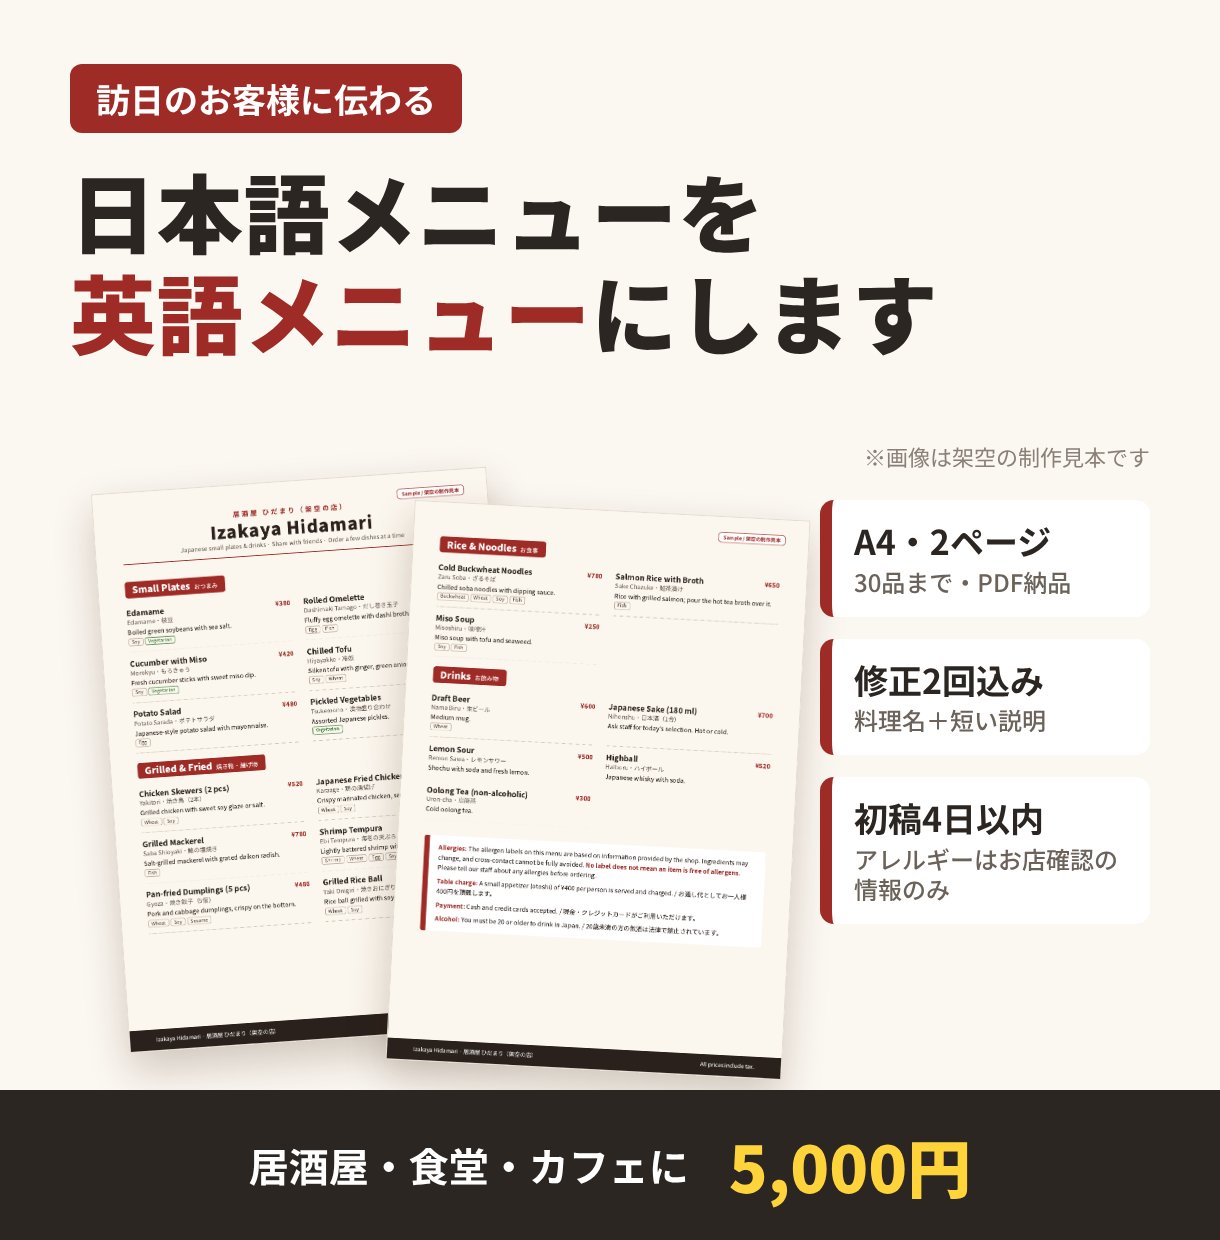
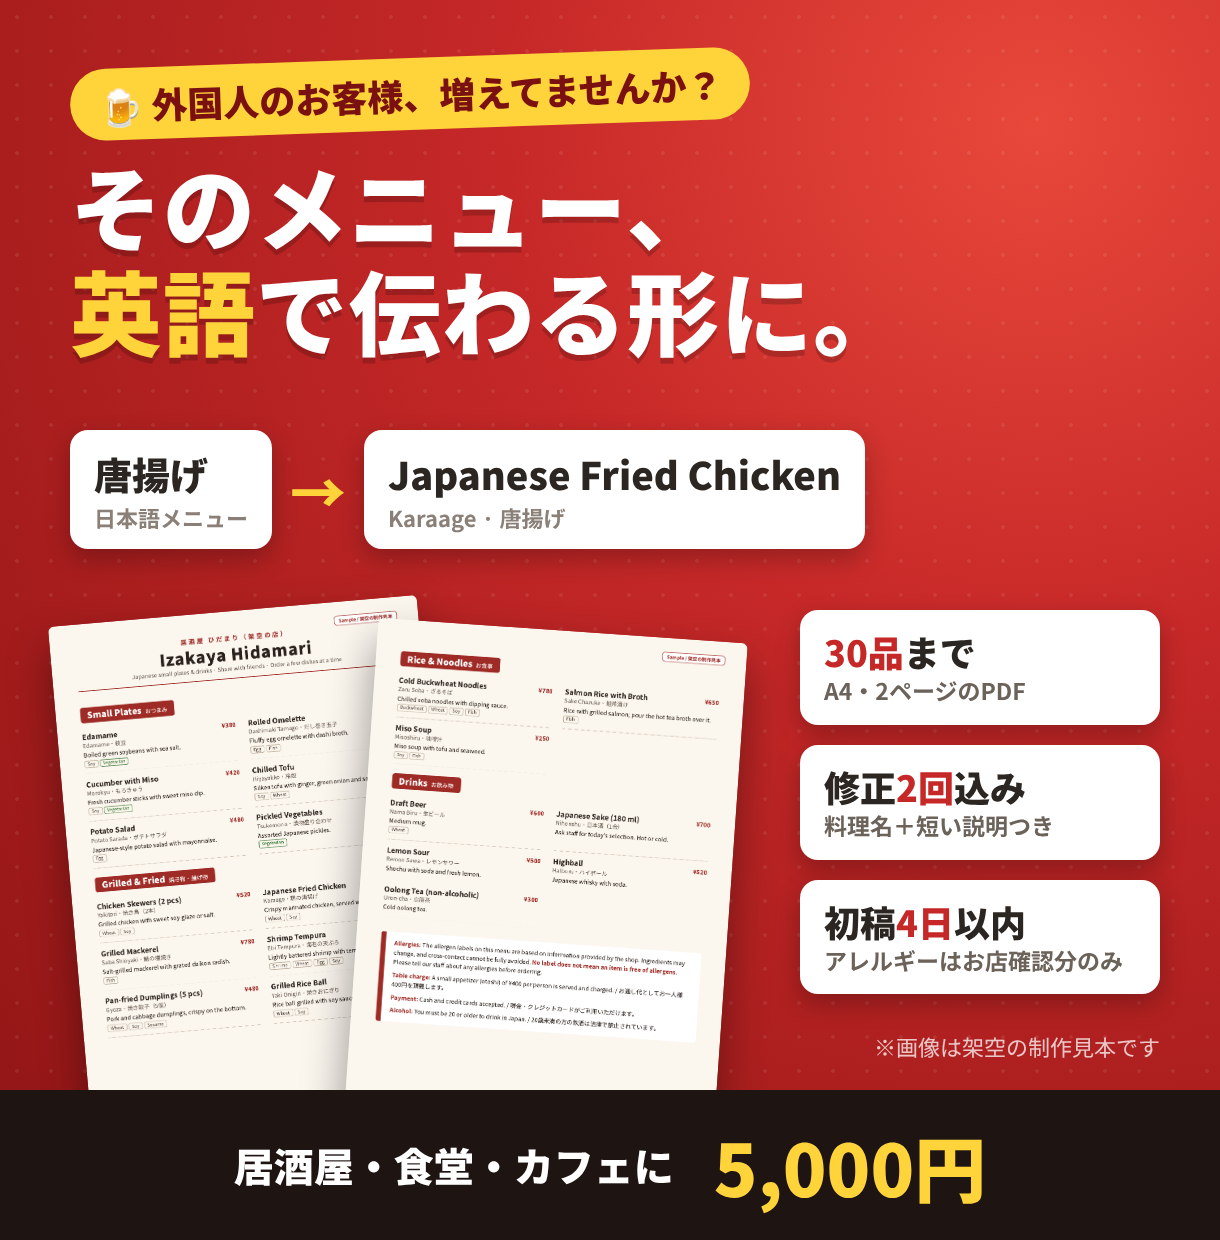
Menu thumbnail: bold red design
Claude-Session: https://claude.ai/code/session_01TjagRrtcak9M1F67RG8mqZ

diff --git a/coconala/build_thumb_menu.py b/coconala/build_thumb_menu.py
@@ -7,27 +7,37 @@ P1, P2 = (H/'_mp-1.png').as_uri(), (H/'_mp-2.png').as_uri()
 C = '#9E2B25'
 html = f'''<!doctype html><html lang=ja><head><meta charset=utf-8><style>
 *{{margin:0;padding:0;box-sizing:border-box}}
-body{{width:1220px;height:1240px;background:#FBF7F1;font-family:"Noto Sans CJK JP";color:#2B2622;position:relative;overflow:hidden}}
-.top{{padding:64px 70px 0}}
-.kick{{display:inline-block;background:{C};color:#fff;font-weight:700;font-size:34px;padding:10px 26px;border-radius:12px}}
-h1{{font-weight:900;font-size:86px;line-height:1.18;margin-top:26px;letter-spacing:.01em}}
-h1 em{{font-style:normal;color:{C}}}
-.pages{{position:absolute;left:70px;right:70px;top:470px;height:560px}}
-.pg{{position:absolute;width:396px;box-shadow:0 18px 40px rgba(60,30,10,.22);border:1px solid #E5DBCF}}
-.p1{{left:40px;top:10px;transform:rotate(-4deg)}} .p2{{left:330px;top:40px;transform:rotate(3deg)}}
-.list{{position:absolute;right:70px;top:500px;width:330px;display:grid;gap:22px}}
-.it{{background:#fff;border-left:12px solid {C};border-radius:14px;padding:20px 22px;font-weight:700;font-size:34px;line-height:1.25}}
-.it small{{display:block;font-size:24px;color:#6B625A;font-weight:500;margin-top:4px}}
-.foot{{position:absolute;left:0;right:0;bottom:0;height:150px;background:#2B2622;color:#fff;display:flex;align-items:center;justify-content:center;gap:40px;font-weight:700;font-size:40px}}
-.foot b{{color:#FFD43B;font-size:64px}}
-.note{{position:absolute;right:70px;top:440px;font-size:22px;color:#8A8077}}
-</style></head><body>
-<div class=top><span class=kick>訪日のお客様に伝わる</span>
-<h1>日本語メニューを<br><em>英語メニュー</em>にします</h1></div>
+body{{width:1220px;height:1240px;font-family:"Noto Sans CJK JP";color:#fff;position:relative;overflow:hidden;
+background:radial-gradient(circle at 85% 10%,#E8483A 0,#C62828 35%,#8E1414 100%)}}
+.dots{{position:absolute;inset:0;background-image:radial-gradient(rgba(255,255,255,.08) 2px,transparent 2px);background-size:34px 34px}}
+.top{{position:relative;padding:58px 70px 0}}
+.kick{{display:inline-block;background:#FFD43B;color:#7A1010;font-weight:900;font-size:36px;padding:10px 28px;border-radius:40px;transform:rotate(-2deg)}}
+h1{{font-weight:900;font-size:92px;line-height:1.14;margin-top:22px;letter-spacing:.01em;text-shadow:0 6px 0 rgba(0,0,0,.18)}}
+h1 em{{font-style:normal;color:#FFD43B}}
+.ba{{position:absolute;left:70px;top:430px;display:flex;align-items:center;gap:18px}}
+.chip{{background:#fff;color:#2B2622;border-radius:18px;padding:16px 24px;font-weight:900;font-size:38px;box-shadow:0 10px 24px rgba(0,0,0,.25)}}
+.chip small{{display:block;font-size:22px;color:#8A8077;font-weight:700}}
+.chip.en{{color:#B71C1C}}
+.arrow{{font-size:56px;font-weight:900;color:#FFD43B}}
+.pages{{position:absolute;left:40px;top:600px;width:720px;height:520px}}
+.pg{{position:absolute;width:370px;box-shadow:0 22px 44px rgba(0,0,0,.4);border-radius:6px}}
+.p1{{left:30px;top:10px;transform:rotate(-5deg)}} .p2{{left:320px;top:30px;transform:rotate(4deg)}}
+.list{{position:absolute;right:60px;top:610px;width:360px;display:grid;gap:20px}}
+.it{{background:#fff;color:#2B2622;border-radius:18px;padding:20px 24px;font-weight:900;font-size:36px;line-height:1.2;box-shadow:0 10px 24px rgba(0,0,0,.25)}}
+.it small{{display:block;font-size:23px;color:#6B625A;font-weight:700;margin-top:4px}}
+.it b{{color:#C62828}}
+.foot{{position:absolute;left:0;right:0;bottom:0;height:150px;background:#1E1412;display:flex;align-items:center;justify-content:center;gap:40px;font-weight:900;font-size:40px}}
+.foot b{{color:#FFD43B;font-size:72px}}
+.note{{position:absolute;right:60px;top:1030px;font-size:22px;color:rgba(255,255,255,.75)}}
+</style></head><body><div class=dots></div>
+<div class=top><span class=kick>🍺 外国人のお客様、増えてませんか？</span>
+<h1>そのメニュー、<br><em>英語</em>で伝わる形に。</h1></div>
+<div class=ba><div class=chip>唐揚げ<small>日本語メニュー</small></div><div class=arrow>→</div>
+<div class=chip en>Japanese Fried Chicken<small>Karaage · 唐揚げ</small></div></div>
 <div class=pages><img class="pg p1" src="{P1}"><img class="pg p2" src="{P2}"></div>
-<div class=list><div class=it>A4・2ページ<small>30品まで・PDF納品</small></div>
-<div class=it>修正2回込み<small>料理名＋短い説明</small></div>
-<div class=it>初稿4日以内<small>アレルギーはお店確認の情報のみ</small></div></div>
+<div class=list><div class=it><b>30品</b>まで<small>A4・2ページのPDF</small></div>
+<div class=it>修正<b>2回</b>込み<small>料理名＋短い説明つき</small></div>
+<div class=it>初稿<b>4日</b>以内<small>アレルギーはお店確認分のみ</small></div></div>
 <div class=note>※画像は架空の制作見本です</div>
 <div class=foot><span>居酒屋・食堂・カフェに</span><b>5,000円</b></div>
 </body></html>'''
